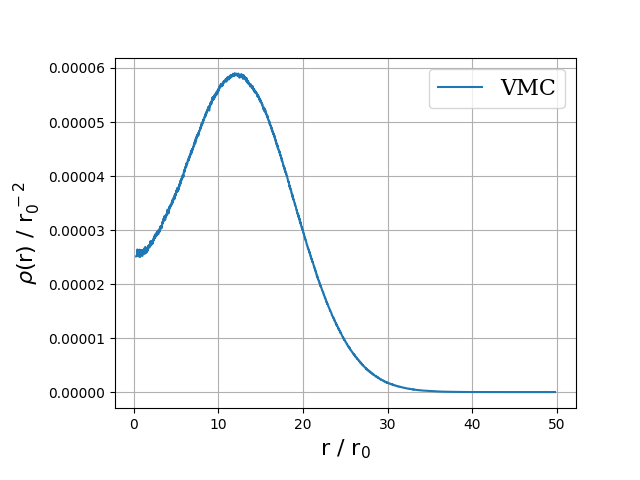
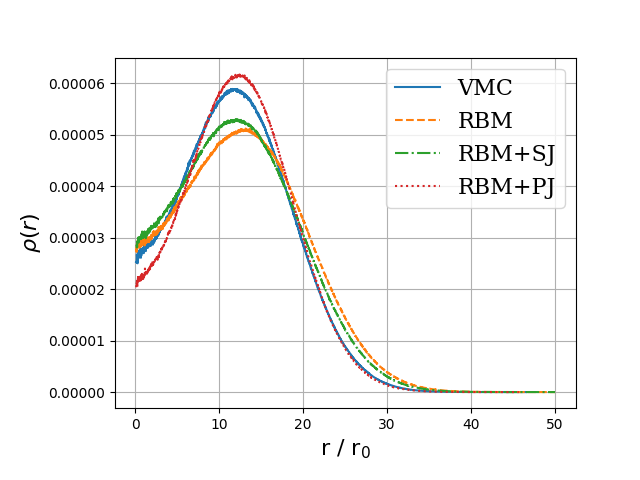
Added fantastic one-body plot indicating wigner crystals

diff --git a/src/main.cpp b/src/main.cpp
@@ -14,11 +14,11 @@ int main(int argc, char *argv[]) {
     int     numberOfDimensions  = 2;
     int     numberOfParticles   = 2;
     int     numberOfHiddenNodes = numberOfParticles;
-    int     numberOfSteps       = int(pow(2,15));
-    int     numberOfIterations  = 1000;
+    int     numberOfSteps       = int(pow(2,20));
+    int     numberOfIterations  = 2000;
     double  totalSpin           = 0;                    // totalSpin is half-integer
-    double  learningRate        = 0.5;
-    double  omega               = 1.0;                 // Oscillator frequency
+    double  learningRate        = 0.01;
+    double  omega               = 0.01;                 // Oscillator frequency
     int     Z                   = numberOfParticles;    // Atomic number (nucleus charge)
     double  sigma               = 1/sqrt(omega);        // Width of probability distribution
     double  stepLength          = 0.1;                  // Metropolis step length
@@ -50,7 +50,7 @@ int main(int argc, char *argv[]) {
     int     additionalStepsLastIter = 8;        // How much should we increase the very last? (as a power of 2)
 
     // Density tools
-    double  maxRadius               = 10;       // Max radius of one-body density plots
+    double  maxRadius               = 50;       // Max radius of one-body density plots
     int     numberOfBins            = 3000;     // 100 bins per radius unit
 
     // Screening tools
@@ -85,21 +85,21 @@ int main(int argc, char *argv[]) {
 
     if(argc == 2) system->parserConstants(argv[1], numberOfIterations);
 
-    system->setBasis                    (new HartreeFock(system, new Hermite(system)));
+    system->setBasis                    (new Hermite(system));
     std::vector<class WaveFunction*> waveFunctionElements;
-    //waveFunctionElements.push_back      (new class Gaussian          (system));
-    waveFunctionElements.push_back      (new class SlaterDeterminant (system));
-    //waveFunctionElements.push_back      (new class RBMGaussian       (system));
-    //waveFunctionElements.push_back      (new class RBMJastrow        (system));
-    //waveFunctionElements.push_back      (new class SimpleJastrow     (system));
-    waveFunctionElements.push_back      (new class PadeJastrow       (system));
-    //waveFunctionElements.push_back      (new class PartlyRestricted  (system));
+    //waveFunctionElements.push_back      (new Gaussian          (system));
+    //waveFunctionElements.push_back      (new SlaterDeterminant (system));
+    waveFunctionElements.push_back      (new RBMGaussian       (system));
+    waveFunctionElements.push_back      (new RBMJastrow        (system));
+    //waveFunctionElements.push_back      (new SimpleJastrow     (system));
+    //waveFunctionElements.push_back      (new PadeJastrow       (system));
+    //waveFunctionElements.push_back      (new PartlyRestricted  (system));
     //waveFunctionElements.push_back      (new HydrogenLike      (system));
 
     system->setWaveFunctionElements     (waveFunctionElements);
     system->setRandomNumberGenerator    (new MersenneTwister());
     system->setOptimization             (new ADAM(system));
-    system->setInitialWeights           (new Constant(system, 1.0));
+    system->setInitialWeights           (new Randomize(system, 0.5));
     system->setInitialState             (new RandomNormal(system));
     system->setHamiltonian              (new HarmonicOscillator(system));
     system->setMetropolis               (new ImportanceSampling(system));

diff --git a/scripts/plot_ob_density.py b/scripts/plot_ob_density.py
@@ -21,29 +21,29 @@ def exact(r1, w):
 
 files = ["../data/int1/onebody/VMC/2D/2P/0.010000w/ADAM_MC1048576.dat",
          "../data/int1/onebody/RBM/2D/2P/0.010000w/ADAM_MC1048576.dat",
-         #"../data/int1/onebody/RBMSJ/2D/6P/0.100000w/ADAM_MC1048576.dat",
+         "../data/int1/onebody/RBMSJ/2D/2P/0.010000w/ADAM_MC1048576.dat",
          "../data/int1/onebody/RBMPJ/2D/2P/0.010000w/ADAM_MC1048576.dat",
          ]
          
 label = ["VMC",
          "RBM",
-         #"RBM+SJ",
+         "RBM+SJ",
          "RBM+PJ"
          ]
          
 line_style = ["-",
               "--", 
-              #"-.", 
+              "-.", 
               ":"]
          
 maxRadius = [50,
              50,
-             #50,
+             50,
              50]
 
 limit = [0.000025, 
-         0.000025, 
-         #0.00018, 
+         0.000027, 
+         0.000028, 
          0.00002]
 
 for i in range(len(files)):

diff --git a/src/system.cpp b/src/system.cpp
@@ -261,7 +261,7 @@ void System::setMaxParameters() {
 }
 
 void System::setStepLength(const double stepLength) {
-    assert(stepLength >= 0);
+    assert(stepLength > 0);
     m_stepLength = stepLength;
 }
 
@@ -284,8 +284,8 @@ void System::setScreeningTools(const bool screening, const double screeningStren
 }
 
 void System::setTotalSpin(const double totalSpin) {
-    //double intpart;
-    //assert(std::modf(m_numberOfParticles/2 - abs(totalSpin), &intpart) == 0.0);
+    double intpart;
+    assert(std::modf(m_numberOfParticles/2 - abs(totalSpin), &intpart) == 0.0);
     m_totalSpin = totalSpin;
 }
 

diff --git a/src/sampler.h b/src/sampler.h
@@ -1,6 +1,19 @@
 #pragma once
 #include "Eigen/Dense"
 #include <fstream>
+#include <mpi.h>
+#include <iostream>
+#include <fstream>
+#include <iomanip>
+#include <cmath>
+#include <cstdio>
+#include <string>
+#include "system.h"
+#include "RNG/rng.h"
+#include "Hamiltonians/hamiltonian.h"
+#include "WaveFunctions/wavefunction.h"
+#include "Optimization/optimization.h"
+#include "block/c++/blocker.h"
 
 class Sampler {
 public:

diff --git a/src/sampler.cpp b/src/sampler.cpp
@@ -1,17 +1,4 @@
-#include <mpi.h>
-#include <iostream>
-#include <fstream>
-#include <iomanip>
-#include <cmath>
-#include <cstdio>
-#include <string>
 #include "sampler.h"
-#include "system.h"
-#include "RNG/rng.h"
-#include "Hamiltonians/hamiltonian.h"
-#include "WaveFunctions/wavefunction.h"
-#include "Optimization/optimization.h"
-#include "block/c++/blocker.h"
 
 using std::cout;
 using std::endl;
